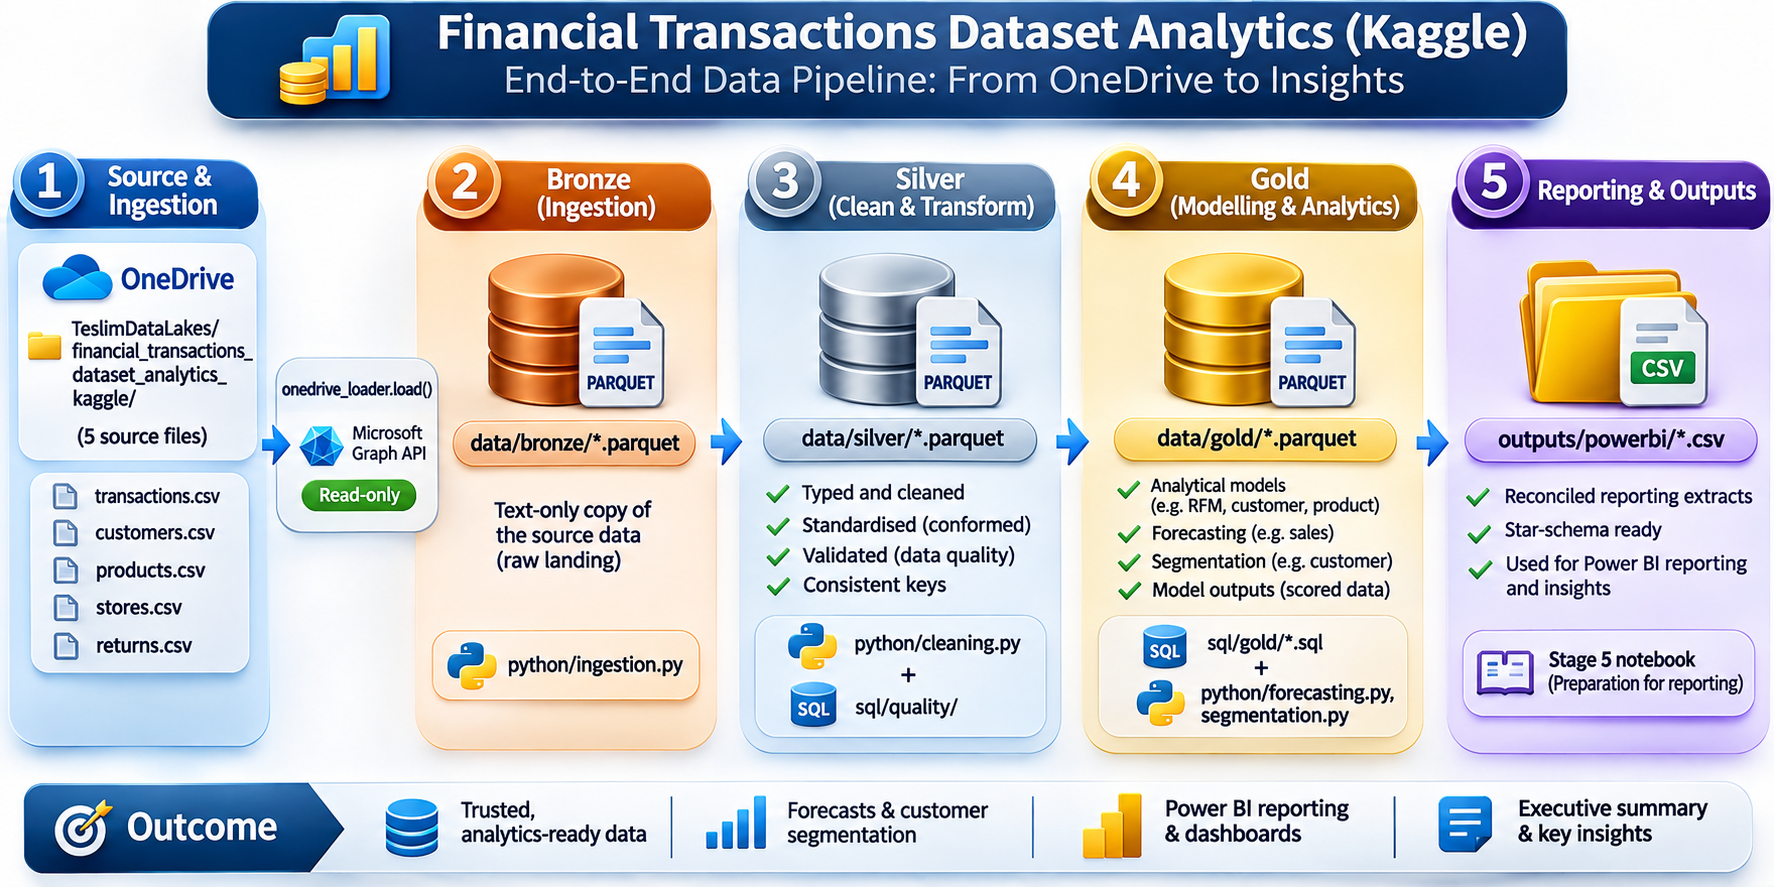
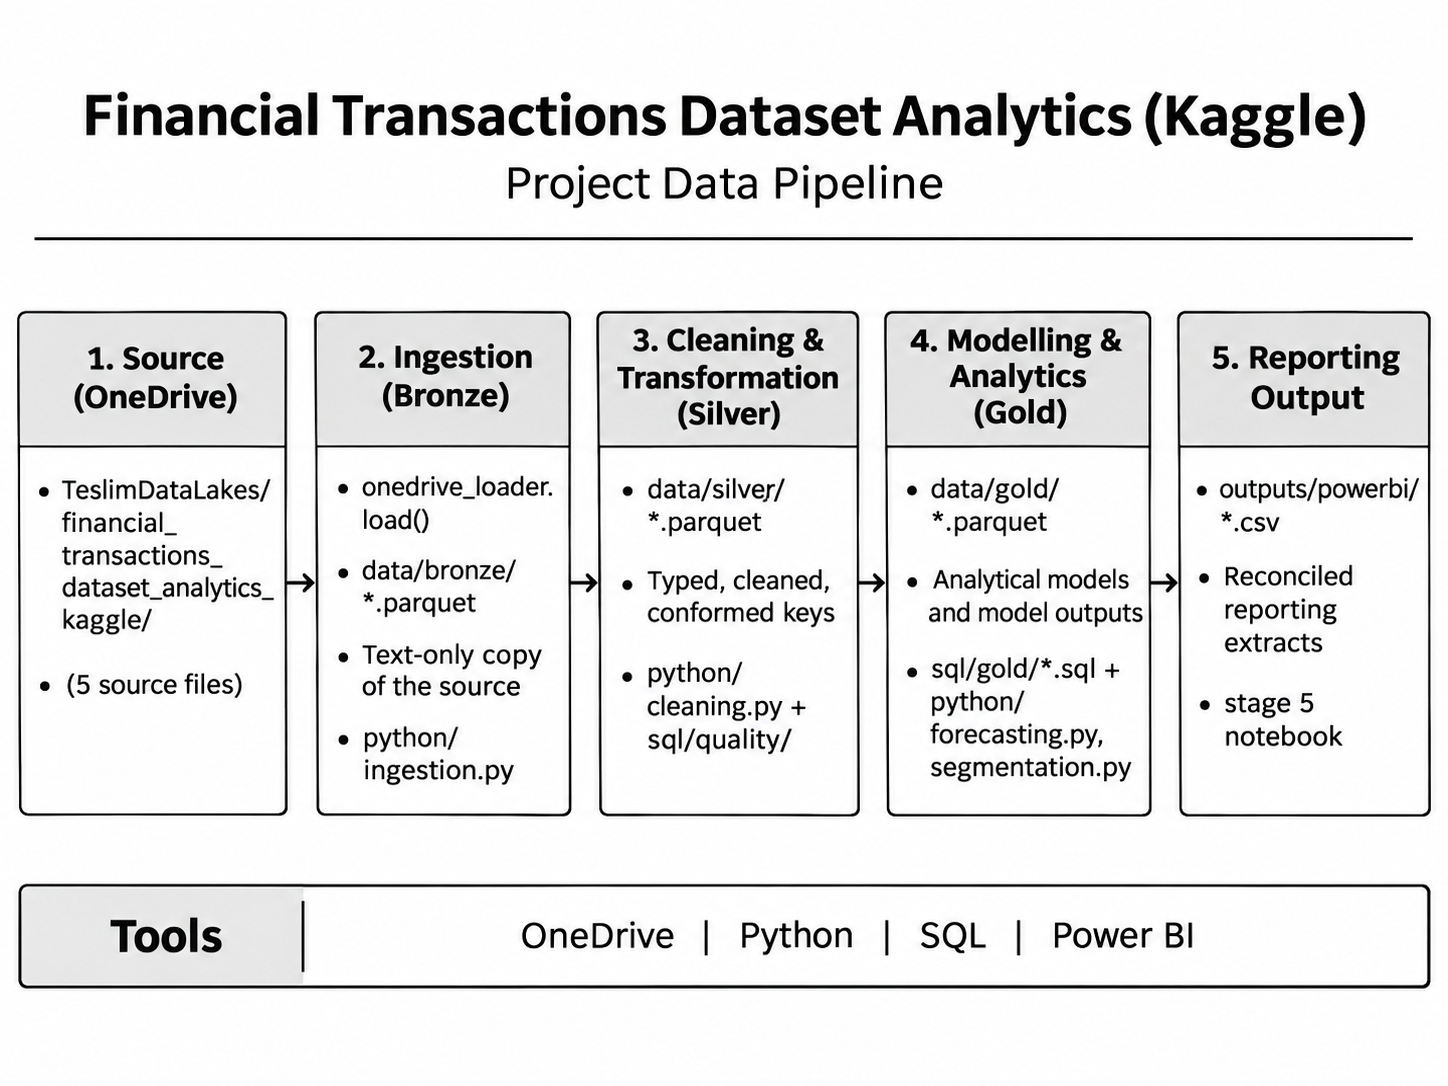
Update data architecture diagram and drop correcting caption

diff --git a/README.md b/README.md
@@ -50,8 +50,6 @@ The diagram follows the data from the OneDrive source through the bronze, silver
 
 ![Data architecture: OneDrive source read through the Microsoft Graph API into bronze, silver and gold Parquet layers, then reconciled CSV extracts for Power BI](docs/images/financial_transactions_data_architecture.png)
 
-The file names in the source panel are illustrative. The five actual sources are `transactions_data.csv`, `users_data.csv`, `cards_data.csv`, `mcc_codes.json` and `train_fraud_labels.json`. The gold layer forecasts monthly **net spend** and segments **customers**. The Power BI extracts are published, but the dashboard has not been built yet.
-
 DuckDB queries the Parquet files directly through `silver_*` and `gold_*` views ([`python/warehouse.py`](python/warehouse.py)), so the 13-million-row transaction table never has to fit in pandas for the SQL steps. `data/` and `outputs/` are gitignored and can be rebuilt from OneDrive by running stages 2–6.
 
 ## Methodological corrections
